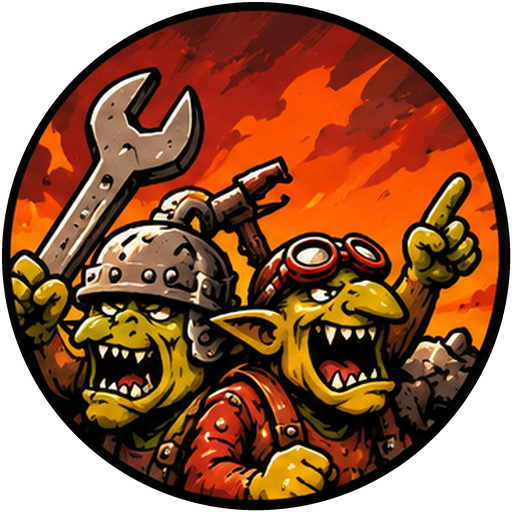
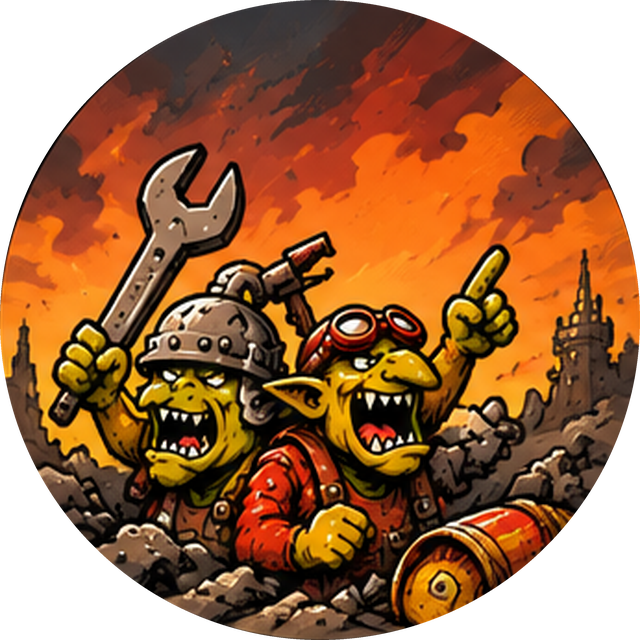
feat(tools): token art fills the face above a divider, title overlaid with a halo
Uses the user's new background-rich illustrations, stretched back to
circles and cropped inside their outlines. The art fills the face above a
horizontal divider, with the curved title over it in light lettering with a
dark outline and halo (ArcText.halo). The source name and effect sit on
plain parchment below.

Claude-Session: https://claude.ai/code/session_01J4ZdVuQfm5HeY82dUqXrCz

diff --git a/tools/detachment-card/cardgen/tokens.py b/tools/detachment-card/cardgen/tokens.py
@@ -15,6 +15,7 @@ import math
 from dataclasses import dataclass, field
 from pathlib import Path
 
+from . import artfit
 from . import text as tx
 from . import textures as tex
 from .scene import ArcText, Circle, Picture, Poly, Rect, Scene, Stroke, Text
@@ -375,6 +376,27 @@ def _border(sc, t, side, g: Rings, bleed):
     sc.add("borders", Circle(c, c, g.border_in, "none", INK, 0.35))
 
 
+ART_CUT = 0.3  # the divider under a front illustration, as a fraction of the face radius below the centre
+ART_SCALE, ART_LIFT = 1.15, 0.15  # the illustration is enlarged and raised, so more of its lower scene shows above the cut
+TITLE_ON_ART = dict(color=BONE, outline=INK, outline_w=0.3, halo=((INK, 1.3, 0.25), (INK, 0.8, 0.45)))
+
+
+def _art_window(sc, t, g: Rings, bleed):
+    """The illustration filling the face above a horizontal divider."""
+    c, r = g.c, g.face
+    cut = c + ART_CUT * r
+    th0 = math.acos(-ART_CUT)
+    n = 120
+    window = tuple((c + r * math.sin(-th0 + 2 * th0 * i / n), c - r * math.cos(-th0 + 2 * th0 * i / n)) for i in range(n + 1))
+    R = r * ART_SCALE
+    x, y = c - R, c - ART_LIFT * r - R
+    art = t.art
+    sc.add("graphics", _bitmap(f"token/{t.id}/front/{bleed}/art", x, y, 2 * R, 2 * R, [window],
+                               lambda wp, hp: artfit.fit(art.path, art.crop, art.transparent, wp, hp)))
+    hw = chord(r, cut - c) / 2
+    sc.add("borders", Stroke(c - hw, cut, c + hw, cut, INK, 0.6), Stroke(c - hw, cut + 0.45, c + hw, cut + 0.45, BRASS, 0.25))
+
+
 def _band(sc, t, side, g: Rings, bleed, title):
     """The turn-coloured stripe, then the parchment face with the title curved along its top."""
     c, W = g.c, sc.width
@@ -385,7 +407,11 @@ def _band(sc, t, side, g: Rings, bleed, title):
     sc.add("background", _bitmap(f"token/{t.id}/{side}/{bleed}/face", c - g.face, c - g.face, 2 * g.face, 2 * g.face,
                                  [circle_pts(c, c, g.face)], lambda wp, hp, s=_seed(t, "face"): tex.parchment(wp, hp, s)))
     sc.add("borders", Circle(c, c, g.face, "none", INK, 0.35))
-    _arc_label(sc, g, title, DISPLAY, math.radians(150), "title" if side == "front" else "back_title", t.id)
+    on_art = side == "front" and t.art is not None
+    if on_art:
+        _art_window(sc, t, g, bleed)
+    _arc_label(sc, g, title, DISPLAY, math.radians(150), "title" if side == "front" else "back_title", t.id,
+               **(TITLE_ON_ART if on_art else {}))
     sc.add("guides", Circle(c, c, g.R, "none", C["guide"], 0.15))  # the cut line, on the hidden guides layer
 
 
@@ -394,7 +420,7 @@ TITLE_GAP = 0.04
 INNER = 1 - TITLE_H - TITLE_GAP - 0.02  # text that could meet the title's curved ends stays inside this fraction
 
 
-def _arc_label(sc, g: Rings, text_, face, max_angle, block, tid):
+def _arc_label(sc, g: Rings, text_, face, max_angle, block, tid, color=INK, outline="", outline_w=0.0, halo=()):
     """The title, curved along the top of the face just inside the stripe, sized to its ring and the allowed arc."""
     line = tx.plain(text_)
     cap = tx.cap_height(face["regular"])
@@ -405,7 +431,7 @@ def _arc_label(sc, g: Rings, text_, face, max_angle, block, tid):
             break
     else:
         raise tx.LayoutError(f"{tid}.{block}: {text_!r} does not fit along the top of the token")
-    sc.add("text", ArcText(g.c, g.c, r, 0.0, line, size, INK, face, False, block))
+    sc.add("text", ArcText(g.c, g.c, r, 0.0, line, size, color, face, False, block, outline=outline, outline_w=outline_w, halo=halo))
     sc.fits[block] = size
 
 
@@ -435,9 +461,8 @@ LABEL_FACE = {"regular": "barlow-label", "bold": "barlow-label", "ability": "bar
 def _front(sc, t, c, r):
     """Picture (illustration or vector icon) under the curved title, then the
     source of the effect in red (if any), then the short effect."""
-    if t.art is not None:
-        _picture(sc, t, c, c - r * 0.215, r * 1.1)
-        top = c + r * 0.36
+    if t.art is not None:  # drawn by _art_window, above the divider
+        top = c + r * (ART_CUT + 0.06)
     else:
         _picture(sc, t, c, c - r * 0.25, r * 0.88)
         top = c + r * 0.3

diff --git a/tools/detachment-card/cardgen/render.py b/tools/detachment-card/cardgen/render.py
@@ -119,6 +119,10 @@ def _element(p) -> str:
     if isinstance(p, ArcText):
         runs = tx.arc_outline(p.line, p.size, p.face, p.cx, p.cy, p.radius, p.centre, p.bottom)
         parts = []
+        for colour, w, op in p.halo:
+            d = " ".join(c for _, c in runs if c)
+            parts.append(f'<path fill="{colour}" fill-opacity="{_n(op)}" stroke="{colour}" stroke-opacity="{_n(op)}" '
+                         f'stroke-width="{_n(w * 2)}" stroke-linejoin="round" d="{d}"/>')
         if p.outline:
             d = " ".join(c for _, c in runs if c)
             parts.append(f'<path fill="{p.outline}" stroke="{p.outline}" stroke-width="{_n(p.outline_w * 2)}" stroke-linejoin="round" d="{d}"/>')

diff --git a/tools/detachment-card/cardgen/scene.py b/tools/detachment-card/cardgen/scene.py
@@ -135,3 +135,4 @@ class ArcText:
     block: str = ""
     outline: str = ""
     outline_w: float = 0.0
+    halo: tuple = ()  # ((colour, stroke width mm, opacity), ...), drawn widest first, behind the outline

diff --git a/tools/detachment-card/README.md b/tools/detachment-card/README.md
@@ -51,7 +51,7 @@ Run this after `generate.py`. It writes `output/stickers_<style>_<size>_<paper>.
 python make_tokens.py            # tokens/orks.json -> output/tokens/
 ```
 
-Round tokens for effects that last past a single roll, such as Riled Up, Busted and Squigged, and for once-per-battle abilities, such as Ammo Runts and Bomb Squigs. Each token has a front (name, icon, short effect) and a back (the rule and when to remove the token). They come in three sizes: 40 mm, 32 mm and 25 mm. Each token is colour-coded twice. Its band shows whose turn the effect is triggered in, using the stratagem ribbon colours: blue for your turn, red for the enemy's turn, green for either. It also says so in words along the bottom of the band. The outer border shows what the effect does: armour plates for defensive, flames for offensive, gear teeth for misc. The title runs along the top of the band. Set these with `turn` and `theme` in `tokens/orks.json`. Unit text comes from BattleScribe (BSData `wh40k-11e`), so check it against the app. Each token is also written as layered SVG, PSD and PNG.
+Round tokens for effects that last past a single roll, such as Riled Up, Busted and Squigged, and for once-per-battle abilities, such as Ammo Runts and Bomb Squigs. Each token has a front (name, icon, short effect) and a back (the rule and when to remove the token). They come in three sizes: 40 mm, 32 mm and 25 mm. Each token is colour-coded twice. Its band shows whose turn the effect is triggered in, using the stratagem ribbon colours: blue for your turn, red for the enemy's turn, green for either. It also says so in words along the bottom of the band. The outer border shows what the effect does: armour plates for defensive, flames for offensive, gear teeth for misc. The title curves along the top of the face. A token with an illustration (`front.art`, in `tokens/art/`) shows it across the top of the front, with the title over it in light lettering with a dark halo, and a divider above the plain text area. Set these with `turn` and `theme` in `tokens/orks.json`. Unit text comes from BattleScribe (BSData `wh40k-11e`), so check it against the app. Each token is also written as layered SVG, PSD and PNG.
 
 The sheet PDF alternates front and back pages: sheet 1 front, sheet 1 back, and so on. Each back sits at the mirror-image position of its front. Glue a front page to one side of a card and its back page to the other, lining up the four corner targets, then cut along the ticks. Printing two-sided with long-edge flip also lines them up. The backs have a wider bleed (3 mm, against 1.5 mm on the fronts), so a back glued slightly off still covers the cut edge. Each page is also written as a 300 DPI PNG named `token_sheet<N>_<front|back>_<paper>.png`.
 
